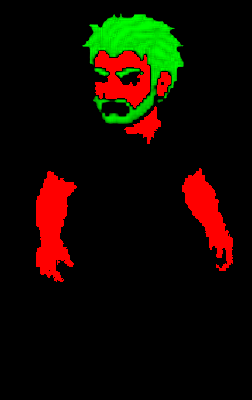
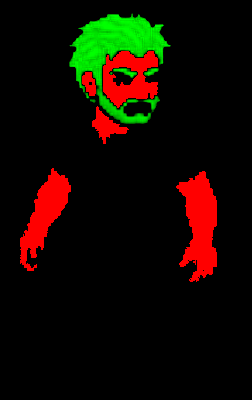
Diagonais do humano: linha de frente espelhada por anotação
A medida da pele não servia de 3/4 de frente (a barba muda o meio) e o
limite estava na escala errada, então nenhum quadro virava. Agora a linha
de costas vira quadro a quadro pela orelha, e a de frente segue
tools/arte/folhas_lados.json, conferida olhando a folha.

Changed region(s): [[0.2778, 0.03, 0.75, 0.36], [0.0833, 0.42, 0.3056, 0.72], [0.6944, 0.42, 0.9444, 0.72]]

diff --git a/tools/arte/importar_folhas.py b/tools/arte/importar_folhas.py
@@ -100,6 +100,9 @@ def passo_fechado(qs):
 
 
 def importar(race, cfg, ref):
+    # anotacao feita olhando a folha: linhas que o Gemini desenhou viradas para o lado contrario
+    lpath = os.path.join(HERE, 'folhas_lados.json')
+    lados = (json.load(open(lpath, encoding='utf-8')) if os.path.exists(lpath) else {}).get(race, {})
     folhas = {acao: os.path.join(SRC, f'folha_{race}_{acao}.png') for acao in ACOES}
     folhas = {k: v for k, v in folhas.items() if os.path.exists(v)}
     if not folhas: return None
@@ -121,10 +124,11 @@ def importar(race, cfg, ref):
                 alturas.append(q.height)
             if dirs[0] in ('down_left', 'up_left'):    # diagonal: cada quadro virado para a direita (pele bem do lado direito) vira
                 fila = quadros[(nome, dirs[0])]
-                # de costas aparece a orelha/bochecha do lado para onde ele olha (pele a direita = virado para a direita);
-                # de 3/4 de frente e o contrario: o lado do rosto que mais aparece e o de tras (pele a esquerda = virado para a direita)
-                if dirs[0] == 'up_left': errado = lambda q: lado_da_pele(q) * (q.height / ALTURA) > 25
-                else: errado = lambda q: lado_da_pele(q) * (q.height / ALTURA) < -8
+                # de costas: a orelha/bochecha aparece do lado para onde ele olha; cada quadro com pele bem a direita vira.
+                # de 3/4 de frente nao da para saber pela pele (a barba muda o meio): vale a anotacao de folhas_lados.json
+                if dirs[0] == 'up_left': errado = lambda q: lado_da_pele(q) > 15
+                else: errado = lambda q: False
+                if lados.get(acao, {}).get(dirs[0]) == 'espelhar': errado = lambda q: True
                 quadros[(nome, dirs[0])] = [q.transpose(Image.FLIP_LEFT_RIGHT) if errado(q) else q for q in fila]
             if dirs[0] == 'left':                       # a linha toda de perfil vira para o mesmo lado (voto dos quadros)
                 fila = quadros[(nome, 'left')]
